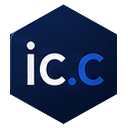
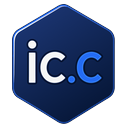
Step N16e: new source artwork, six times the target size
Four icons were rejected and every failure was the same one: the source was about
the size of the output, so there was no headroom and something had to be
invented. The draft was a 1.23x upscale; the geometric rebuild invented the
shapes; the banner crop was native but only 109x121, and masking it tightly
enough to look neat cut the rim highlight the artwork is lit by.

The new artwork carries the mark at 654x763, so 128 is a 0.16x downscale: the
resampling is the anti-aliasing and nothing is reconstructed. That fact fixed it,
not technique.

What was asked for and what arrived differ, and the gap matters. The request was
SVG, else 2048, else 1024 square with a real alpha channel. What came back was a
browser screenshot: 779x838, not square, mode RGBA but every pixel alpha 255 and
the corners opaque white. It was usable only because the mark within it is large
and the surround is uniformly #FFFFFF -- 16,800 of 16,800 sampled pixels -- which
makes the cut unambiguous.

The background is flooded from the border, never keyed globally, because the
lettering is white too. Alpha is feathered at full resolution and the 6x
downscale resolves the edge, which is why the script supersamples nothing.

docs/assets/icon-source.png is committed beside the icon: a 128px PNG cannot be
edited or re-derived by anyone.

The script does not reproduce the reviewed candidate byte-for-byte. The candidate
used a hand-measured crop box, the script uses getbbox() over the alpha -- same
[…]

diff --git a/eng/make-icon.py b/eng/make-icon.py
@@ -1,101 +1,86 @@
 #!/usr/bin/env python3
-"""Cut the package icon out of the banner artwork.
+"""Derive the package icon from the source artwork.
 
-    python eng/make-icon.py        # writes docs/assets/icon.png
+    python eng/make-icon.py        # docs/assets/icon-source.png -> docs/assets/icon.png
 
-WHY A CROP AND NOT A REDRAW. Two earlier attempts failed and both are worth knowing about. Scaling
-the 94x104 hexagon out of the original 185x164 draft up to 128 is a 1.23x upscale and looks like
-one. Rebuilding the mark from primitives -- it is only a hexagon, two arcs, three circles and a
-stem -- produced a spike at the apex and misplaced lettering; it would have been a reconstruction
-of intent from 94 pixels rather than the design.
+WHY THERE IS A SOURCE FILE AND A SCRIPT. `docs/assets/icon.png` is 128x128 because that is what
+nuget.org recommends, and a 128px PNG is not something anyone can edit or re-derive. The source it
+comes from is kept beside it, so the shipped icon is reproducible rather than a one-off.
 
-`docs/assets/infocarrier-core-banner.png` is 1774x887 and carries a better variant of the mark at
-109x121.5 (note its `i` dot is WHITE, where the draft's is blue). A 128x128 crop around it involves
-NO RESAMPLING AT ALL, which is the only way to be sure the icon is as sharp as the source.
+THE HISTORY IS WORTH ONE PARAGRAPH, because it is entirely about resolution. The first icon was
+scaled up from a 94x104 hexagon in a 185x164 draft -- a 1.23x upscale, and it looked like one.
+Rebuilding the mark from primitives (hexagon, arcs, circles, stem) produced a spike at the apex and
+misplaced lettering. Cropping the mark out of the 1774x887 README banner at native resolution was
+sharp but only 109x121, and masking it that tightly cut the rim highlight the artwork is lit by.
+The source used now is ~654x763, so 128 is a 0.16x DOWNSCALE: the sampling does the anti-aliasing
+and there is nothing to reconstruct.
 
-WHY THE MASK IS COMPUTED RATHER THAN DRAWN. The plate carries a light-to-shade gradient that has to
-survive, so only the silhouette may be cut. Pillow has no rounded polygon, and the usual trick --
-fill an inset polygon, then stroke it with a round-jointed pen -- leaves a visible notch where the
-stroke closes, at the top apex. An analytic signed distance field has no seam: erode every edge by
-the corner radius and dilate by the same amount, and the edges stay put while the corners round.
-
-The numbers below were measured off the banner from luminance profiles across each edge, not
-guessed. INSET exists because the outermost pixel of the plate is already blended with the black
-field behind it; taking it would leave a dark fringe.
-
-INSET IS 1.0 AND NOT 2.0, WHICH IS NOT A ROUNDING PREFERENCE. The plate is lit from the top left
-and carries a rim highlight on its upper-left edges only -- about twice the brightness of the plate
-(left edge 56, top apex 62, against a plate around 29), while the right and bottom edges have none.
-That rim IS the light effect. At INSET=2.0 the mask boundary falls just inside it and the highlight
-is cut to alpha 0 on every edge that has one. The result still looks tidy, which is exactly why it
-survived a review that only asked whether the edge was clean. Measured at identified rim pixels:
-
-    inset   (584,51)  (581,57)  (581,69)  (581,105)
-      1.0        255       255       255        255
-      2.0        132         0         0          0
-
-1.0 keeps the highlight and costs one near-black pixel on the entire boundary.
+HOW THE BACKGROUND IS REMOVED, and why not simply "white -> transparent". The lettering inside the
+mark is white too. Flooding inward from the border only reaches pixels connected to the outside, so
+the glyphs are never touched. Alpha is feathered by how close each pixel is to white, at FULL
+resolution -- the 6x downscale afterwards is what actually resolves the edge, which is why no
+supersampling appears anywhere in here.
 """
 
-import math
 import os
+from collections import deque
 
 from PIL import Image
 
-BANNER = os.path.join("docs", "assets", "infocarrier-core-banner.png")
+SRC = os.path.join("docs", "assets", "icon-source.png")
 OUT = os.path.join("docs", "assets", "icon.png")
 
-CX, CY = 634.5, 82.25      # plate centre in the banner
-W, H = 109.0, 121.5        # plate size; aspect 0.897, a little wider than a regular hexagon
-BOX = (571, 18, 699, 146)  # the 128x128 crop, chosen so the plate lands centred
-INSET = 1.0                # clears the background-blended pixel, keeps the rim highlight
-RADIUS = 16.0              # corner rounding, matched to the artwork
-SIZE = 128                 # what nuget.org recommends
-
-
-def hexagon(cx, cy, w, h):
-    """Pointy-top hexagon: a vertex top and bottom, vertical left and right sides."""
-    return [(cx, cy - h / 2), (cx + w / 2, cy - h / 4), (cx + w / 2, cy + h / 4),
-            (cx, cy + h / 2), (cx - w / 2, cy + h / 4), (cx - w / 2, cy - h / 4)]
-
-
-def half_planes(pts):
-    """Outward unit normal and offset per edge, which is all a convex SDF needs."""
-    cx = sum(p[0] for p in pts) / len(pts)
-    cy = sum(p[1] for p in pts) / len(pts)
-    out = []
-    for i in range(len(pts)):
-        (x0, y0), (x1, y1) = pts[i], pts[(i + 1) % len(pts)]
-        nx, ny = (y1 - y0), -(x1 - x0)
-        n = math.hypot(nx, ny)
-        nx, ny = nx / n, ny / n
-        if nx * (cx - x0) + ny * (cy - y0) > 0:
-            nx, ny = -nx, -ny
-        out.append((nx, ny, nx * x0 + ny * y0))
-    return out
+CANVAS = 128        # nuget.org's recommendation
+MARGIN = 4          # keeps the mark off the edge at every display size
+LOOSE = 200         # a pixel this pale, reachable from the border, is background
 
 
 def main():
-    banner = Image.open(BANNER).convert("RGB")
-    crop = banner.crop(BOX)
-    assert crop.size == (SIZE, SIZE), crop.size
+    src = Image.open(SRC).convert("RGBA")
+    w, h = src.size
+    px = src.load()
 
-    planes = half_planes(hexagon(CX - BOX[0], CY - BOX[1], W - 2 * INSET, H - 2 * INSET))
+    def pale(p):
+        return min(p[0], p[1], p[2]) > LOOSE
 
-    alpha = Image.new("L", (SIZE, SIZE), 0)
-    ap = alpha.load()
-    for y in range(SIZE):
-        for x in range(SIZE):
-            px, py = x + 0.5, y + 0.5
-            distance = max(nx * px + ny * py - (d - RADIUS) for nx, ny, d in planes) - RADIUS
-            # 0.5 - distance gives one pixel of linear coverage across the boundary: an
-            # anti-aliased edge without supersampling anything.
-            ap[x, y] = int(max(0.0, min(1.0, 0.5 - distance)) * 255)
+    seen = [[False] * h for _ in range(w)]
+    q = deque()
+    for x in range(w):
+        for y in (0, h - 1):
+            if pale(px[x, y]) and not seen[x][y]:
+                seen[x][y] = True
+                q.append((x, y))
+    for y in range(h):
+        for x in (0, w - 1):
+            if pale(px[x, y]) and not seen[x][y]:
+                seen[x][y] = True
+                q.append((x, y))
 
-    icon = crop.convert("RGBA")
-    icon.putalpha(alpha)
+    while q:
+        x, y = q.popleft()
+        m = min(px[x, y][:3])
+        # 255 -> fully clear, LOOSE -> nearly opaque: a soft edge rather than a cut
+        px[x, y] = px[x, y][:3] + (max(0, min(255, int(255 * (255 - m) / (255 - LOOSE)))),)
+        for dx, dy in ((1, 0), (-1, 0), (0, 1), (0, -1)):
+            nx, ny = x + dx, y + dy
+            if 0 <= nx < w and 0 <= ny < h and not seen[nx][ny] and pale(px[nx, ny]):
+                seen[nx][ny] = True
+                q.append((nx, ny))
+
+    # Trim to whatever is actually opaque, so the margin below is measured from the mark rather
+    # than from however much whitespace the source happened to carry.
+    bbox = src.getbbox()
+    mark = src.crop(bbox)
+
+    target = CANVAS - 2 * MARGIN
+    scale = min(target / mark.width, target / mark.height)
+    size = (round(mark.width * scale), round(mark.height * scale))
+    mark = mark.resize(size, Image.LANCZOS)
+
+    icon = Image.new("RGBA", (CANVAS, CANVAS), (0, 0, 0, 0))
+    icon.paste(mark, ((CANVAS - size[0]) // 2, (CANVAS - size[1]) // 2), mark)
     icon.save(OUT, optimize=True)
-    print(f"{OUT}  {icon.size[0]}x{icon.size[1]}  {os.path.getsize(OUT)} bytes")
+    print(f"{OUT}  {CANVAS}x{CANVAS}  mark {size[0]}x{size[1]}  {os.path.getsize(OUT)} bytes")
 
 
 if __name__ == "__main__":

diff --git a/docs/implementation-plan.md b/docs/implementation-plan.md
@@ -1945,3 +1945,46 @@ rather than staying silent about it.
 
       **Gates: `dotnet pack` clean; `icon.png` (20,411 bytes) inside the nupkg; rendered at 128 and
       32 on white and near-black.** No `src/` code, no `test/`.
+
+- [x] **N16e. New source artwork, six times the target size, and the whole problem dissolves.**
+      `<this commit>`
+
+      Four icons were rejected before this one and **every failure was the same failure**: the
+      source was about the size of the output, so there was no headroom and something had to be
+      invented. Draft hexagon 94x104 → 128 was a 1.23x upscale. The geometric rebuild invented the
+      shapes. The banner crop was native but only 109x121, and masking it tightly enough to look
+      neat cut the rim highlight the artwork is lit by.
+
+      The new artwork carries the mark at **654x763**. 128 is a **0.16x downscale**, so the
+      resampling *is* the anti-aliasing and nothing is reconstructed. That single fact is what fixed
+      it — not technique.
+
+      **What was asked for and what arrived, because the gap matters.** The request was SVG, else
+      2048, else 1024 square with a real alpha channel. What came back was a **browser screenshot**:
+      779x838, not square, `mode=RGBA` but **every pixel alpha 255** and the corners opaque white.
+      An alpha channel that exists and is unused is the shape of "transparent" that a screenshot
+      always produces. It was usable anyway only because the mark within it is large and the
+      surround is *uniformly* `#FFFFFF` — 16,800 of 16,800 sampled pixels — which makes the cut
+      unambiguous.
+
+      **The background is flooded from the border, never keyed globally.** The lettering is white
+      too; a global white→transparent eats it. Alpha is feathered by whiteness at **full**
+      resolution, and the 6x downscale afterwards resolves the edge — which is why there is no
+      supersampling in the script.
+
+      **`docs/assets/icon-source.png` is committed beside the icon.** A 128px PNG cannot be edited
+      or re-derived by anyone; the source and `eng/make-icon.py` make the shipped file reproducible.
+
+      **The script does NOT reproduce the reviewed candidate byte-for-byte**, and that is stated
+      rather than glossed: the candidate used a hand-measured crop box, the script uses
+      `getbbox()` over the alpha. Same mark size (103x120), a slightly different boundary, 129 edge
+      pixels against 181. The script's output is what ships and is what was checked.
+
+      Verified: **0** white-halo pixels on the boundary, corners fully transparent, rendered at 128,
+      64 and 32 on white, near-black and nuget.org's grey card. `icon.png` (13,901 bytes) confirmed
+      inside the nupkg with `<icon>icon.png</icon>`.
+
+      **Still worth getting: the real vector.** Everything here is derived from a screenshot of it.
+      For a 128px icon that no longer matters; for anything large it would.
+
+      **Gates: `dotnet pack` clean.** No `src/` code, no `test/`.
